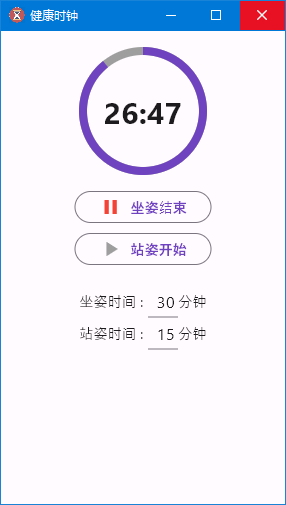
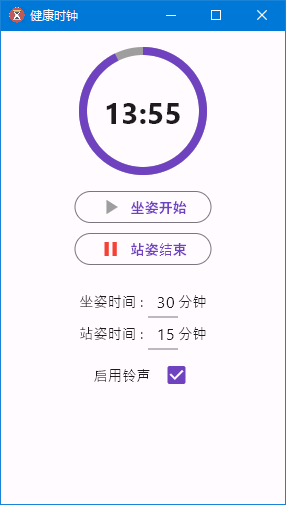
支持关闭铃声；解决站姿和坐姿时间相同导致倒计时无法更新的问题；

diff --git a/lib/main.dart b/lib/main.dart
@@ -37,6 +37,7 @@ class MyHomePage extends StatefulWidget {
 
 const String _prefSittingMinutesName = 'sitting_minutes';
 const String _prefStandingMinutesName = 'standing_minutes';
+const String _prefEnableBellName = 'enable_bell';
 
 class _MyHomePageState extends State<MyHomePage> {
   AudioPlayer? _player;
@@ -45,6 +46,7 @@ class _MyHomePageState extends State<MyHomePage> {
   int _sittingMinutes = 30;
   int _standMinutes = 15;
   SharedPreferences? _prefs;
+  bool _enableBell = true;
 
   @override
   void initState() {
@@ -55,6 +57,7 @@ class _MyHomePageState extends State<MyHomePage> {
         _sittingMinutes =
             prefs.getInt(_prefSittingMinutesName) ?? _sittingMinutes;
         _standMinutes = prefs.getInt(_prefStandingMinutesName) ?? _standMinutes;
+        _enableBell = prefs.getBool(_prefEnableBellName) ?? true;
       });
     });
   }
@@ -62,10 +65,6 @@ class _MyHomePageState extends State<MyHomePage> {
   @override
   Widget build(BuildContext context) {
     return Scaffold(
-      // appBar: AppBar(
-      //   backgroundColor: Theme.of(context).colorScheme.inversePrimary,
-      //   title: Text(widget.title),
-      // ),
       body: Center(
         child: Column(
           mainAxisAlignment: MainAxisAlignment.start,
@@ -74,6 +73,8 @@ class _MyHomePageState extends State<MyHomePage> {
               height: 20,
             ),
             TimerWidget(
+              //当站姿和坐姿时间相同时会导致无法更新，所以添加key
+              key: Key(_isSitting ? 'heal_care_sitting' : 'heal_care_standing'),
               seconds: _isStart
                   ? (_isSitting ? _sittingMinutes * 60 : _standMinutes * 60)
                   : 0,
@@ -162,6 +163,29 @@ class _MyHomePageState extends State<MyHomePage> {
             const SizedBox(
               height: 10,
             ),
+            Row(
+              mainAxisSize: MainAxisSize.min,
+              mainAxisAlignment: MainAxisAlignment.start,
+              crossAxisAlignment: CrossAxisAlignment.center,
+              children: [
+                const Text(
+                  '启用铃声',
+                ),
+                const SizedBox(
+                  width: 10,
+                ),
+                Checkbox(
+                    value: _enableBell,
+                    onChanged: (value) {
+                      if (value != null) {
+                        setState(() {
+                          _enableBell = value;
+                          _prefs?.setBool(_prefEnableBellName, value);
+                        });
+                      }
+                    }),
+              ],
+            ),
           ],
         ),
       ),
@@ -200,12 +224,15 @@ class _MyHomePageState extends State<MyHomePage> {
 
   //参考资料：https://blog.csdn.net/yikezhuixun/article/details/130660544
   void _playAlarmMusic() async {
-    if (_player == null) {
+    if (_enableBell && _player == null) {
       AudioPlayer player = AudioPlayer();
       _player = player;
       await player.setSource(AssetSource('alarm_music.mp3'));
       player.setReleaseMode(ReleaseMode.loop);
       await player.resume();
+      Future.delayed(const Duration(minutes: 2), () {
+        _stopAlarmMusic();
+      });
     }
   }
 
@@ -249,6 +276,9 @@ class _MyHomePageState extends State<MyHomePage> {
           break;
         case LocalNotificationCloseReason.timedOut:
           // do something
+          if (_isStart) {
+            _notify();
+          }
           break;
         default:
       }
